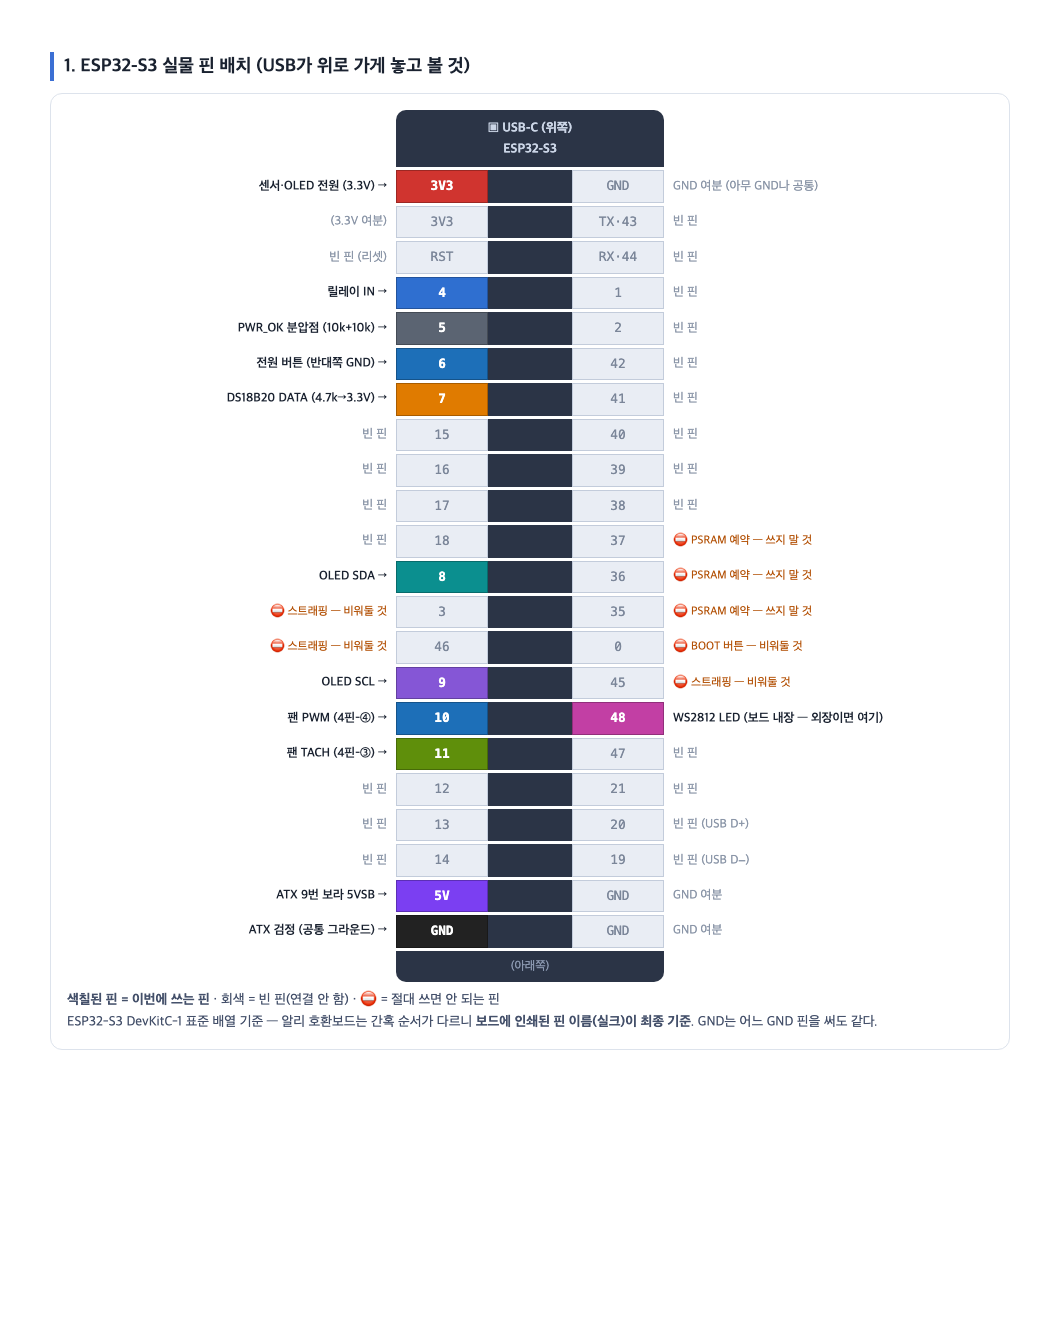
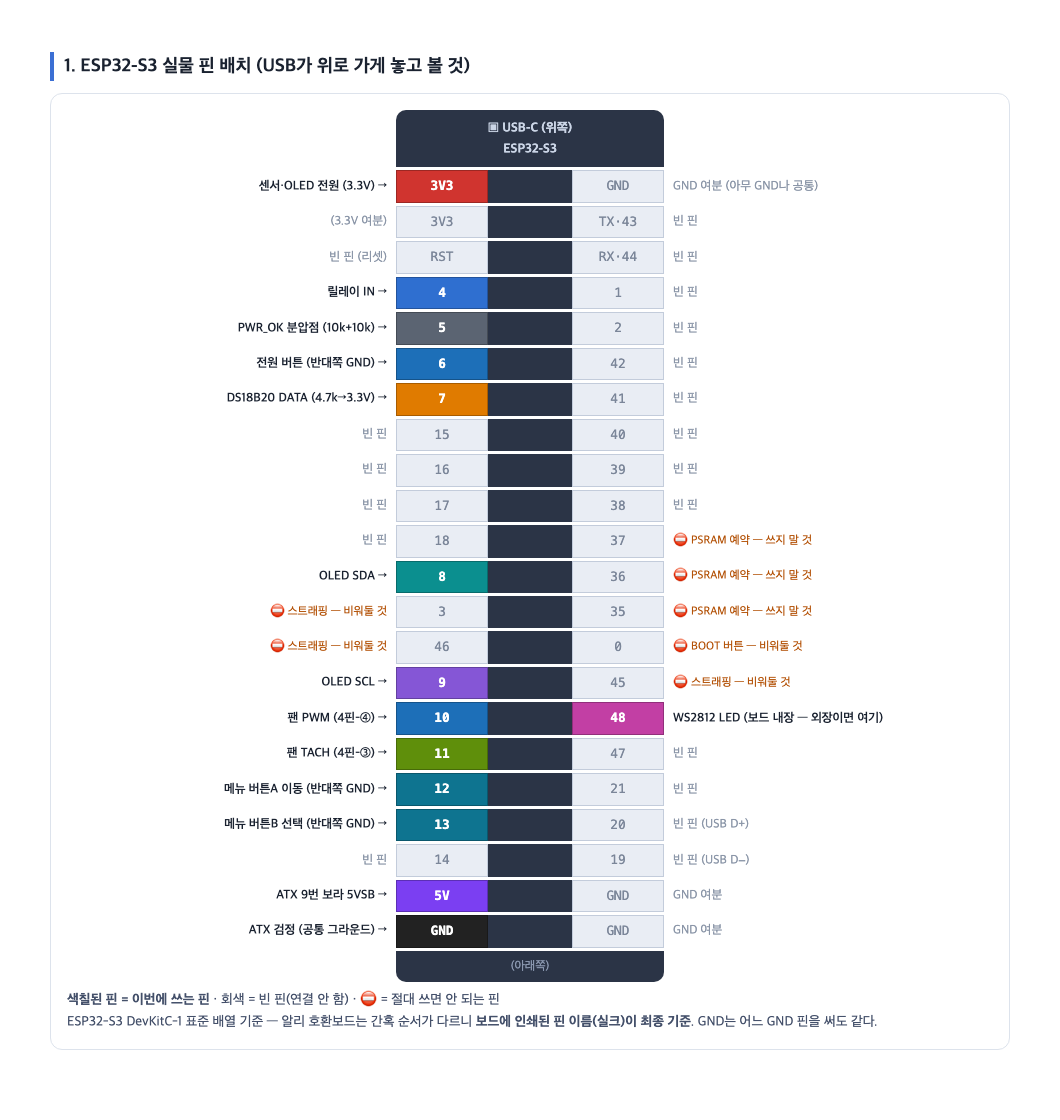
feat: on-device settings menu — 2 nav buttons + OLED (fan mode/preset, brightness, thresholds), Korean menu font

Changed region(s): [[0.0623, 0.0312, 0.8406, 0.9375]]

diff --git a/docs/wiring-guide.html b/docs/wiring-guide.html
@@ -74,8 +74,8 @@
   <div class="lb l u">OLED SCL →</div><div class="pin u" style="background:#8556d6">9</div><div class="body"></div><div class="pin">45</div><div class="lb r"><span class="no">⛔ 스트래핑 — 비워둘 것</span></div>
   <div class="lb l u">팬 PWM (4핀-④) →</div><div class="pin u" style="background:#1d6fb8">10</div><div class="body"></div><div class="pin u" style="background:#c23fa4">48</div><div class="lb r u">WS2812 LED (보드 내장 — 외장이면 여기)</div>
   <div class="lb l u">팬 TACH (4핀-③) →</div><div class="pin u" style="background:#5f8f0b">11</div><div class="body"></div><div class="pin">47</div><div class="lb r">빈 핀</div>
-  <div class="lb l">빈 핀</div><div class="pin">12</div><div class="body"></div><div class="pin">21</div><div class="lb r">빈 핀</div>
-  <div class="lb l">빈 핀</div><div class="pin">13</div><div class="body"></div><div class="pin">20</div><div class="lb r">빈 핀 (USB D+)</div>
+  <div class="lb l u">메뉴 버튼A 이동 (반대쪽 GND) →</div><div class="pin u" style="background:#0e7490">12</div><div class="body"></div><div class="pin">21</div><div class="lb r">빈 핀</div>
+  <div class="lb l u">메뉴 버튼B 선택 (반대쪽 GND) →</div><div class="pin u" style="background:#0e7490">13</div><div class="body"></div><div class="pin">20</div><div class="lb r">빈 핀 (USB D+)</div>
   <div class="lb l">빈 핀</div><div class="pin">14</div><div class="body"></div><div class="pin">19</div><div class="lb r">빈 핀 (USB D−)</div>
   <div class="lb l u">ATX 9번 보라 5VSB →</div><div class="pin u" style="background:#7b3ff2">5V</div><div class="body"></div><div class="pin">GND</div><div class="lb r">GND 여분</div>
   <div class="lb l u">ATX 검정 (공통 그라운드) →</div><div class="pin u" style="background:#222">GND</div><div class="body"></div><div class="pin">GND</div><div class="lb r">GND 여분</div>
@@ -187,6 +187,7 @@
 <tr><td class="mono">GPIO8 / GPIO9</td><td>OLED SDA / SCL</td><td>OLED 전원은 3.3V</td></tr>
 <tr><td class="mono">GPIO10</td><td>팬 4핀-④ PWM</td><td>25kHz PWM 출력</td></tr>
 <tr><td class="mono">GPIO11</td><td>팬 4핀-③ TACH</td><td>내부 풀업, 2펄스/회전</td></tr>
+<tr><td class="mono">GPIO12 / GPIO13</td><td>메뉴 버튼 A(이동) / B(선택)</td><td>반대쪽은 GND, 내부 풀업 — OLED 설정 메뉴 조작</td></tr>
 <tr><td class="mono">GPIO48</td><td>WS2812 상태 LED</td><td>devkit 내장 LED면 배선 불필요</td></tr>
 <tr><td colspan="3" style="background:#fbfcfe">릴레이 접점: <b>COM ↔ ATX 16번 녹색(PS_ON)</b> · <b>NC ↔ GND</b> · NO는 비움 / 릴레이 VCC↔5VSB, GND↔공통</td></tr>
 <tr><td colspan="3" style="background:#fbfcfe">팬 전원: ① GND ↔ 공통 GND · ② 12V ↔ ATX 10번 노랑 (파워 켜져 있을 때만 살아남 — 정상)</td></tr>

diff --git a/README.md b/README.md
@@ -29,6 +29,7 @@ This project fixes all of that with an ESP32-S3 sitting between your ATX PSU and
 - 🧠 **Fully autonomous** — the graceful-shutdown sequence (HTTP request to the OS → wait → cut power), fan curve, OLED and button all run on the ESP32 itself. No Home Assistant, no cloud, no Wi-Fi required
 - 🌡 **Temperature-driven fan curve** — two DS18B20 probes (GPU heatsink + case), 25 kHz PWM, tach feedback with fan-failure detection
 - 🖥 **OLED status display** — power state, temperatures, fan RPM, network info on an SSD1306
+- 🎛 **On-device settings menu** — two extra buttons + the OLED give you a local menu: fan mode/preset, manual speed, display brightness, overheat threshold, shutdown timeout — all saved to flash, no phone or PC needed
 - 🚨 **WS2812 status LED** — off / green (running) / yellow (shutting down) / red (fan failure, overheat)
 - 🌐 **Built-in web dashboard** — control everything from a browser, straight from the ESP32
 - 🏠 **Home Assistant auto-discovery** — appears natively via the ESPHome integration (optional MQTT)
@@ -64,7 +65,7 @@ Missing parts don't break anything: an absent OLED, sensor, fan or button simply
 |---|---|---|---|
 | **Minimal** | ESP32 + relay + 3 jumper wires | Web/HA power on-off, graceful shutdown, status LED (onboard) | [`bc250-front-minimal.yaml`](bc250-front-minimal.yaml) |
 | **+ Button** | + push button | Physical front-panel power button | same |
-| **Full** | + OLED, 2× DS18B20, PWM fan, PWR_OK divider | Fan curve, temperatures, display, PSU state | [`bc250-front.yaml`](bc250-front.yaml) |
+| **Full** | + OLED, 2× DS18B20, PWM fan, 2 menu buttons, PWR_OK divider | Fan curve, temperatures, display, on-device settings menu, PSU state | [`bc250-front.yaml`](bc250-front.yaml) |
 
 ## Hardware
 
@@ -74,7 +75,7 @@ Missing parts don't break anything: an absent OLED, sensor, fan or button simply
 | 5 V 1-channel relay module (optocoupler) | 1 | $1 |
 | SSD1306 0.96" OLED (I2C) | 1 | $2 |
 | DS18B20 temperature sensor | 2 | $2 |
-| Momentary push button | 1 | $0.5 |
+| Momentary push button (power + 2 menu) | 3 | $1 |
 | Resistors: 2× 10 kΩ, 1× 4.7 kΩ | — | $0.1 |
 | Dupont jumper wires | — | $1 |
 
@@ -98,6 +99,7 @@ Missing parts don't break anything: an absent OLED, sensor, fan or button simply
 | `GPIO8` / `GPIO9` | OLED SDA / SCL |
 | `GPIO10` | Fan PWM (4-pin fan, pin 4) |
 | `GPIO11` | Fan tach (4-pin fan, pin 3) |
+| `GPIO12` / `GPIO13` | Menu buttons A (navigate) / B (select) — other leg → GND |
 | `GPIO48` | WS2812 (onboard on most devkits) |
 
 Relay contacts: **COM ↔ ATX pin 16 (green `PS_ON`)**, **NC ↔ GND**, NO unused.

diff --git a/README.ko.md b/README.ko.md
@@ -24,6 +24,7 @@ AMD BC-250은 20만 원 안팎에 PS5 APU를 쓸 수 있는 물건이지만, 마
 - 🧠 **완전 독립 동작** — 정상 종료 시퀀스(OS에 HTTP 종료 요청 → 대기 → 전원 컷), 팬 커브, OLED, 버튼 전부 ESP32 안에서 동작. HA·클라우드·WiFi 없이도 됨
 - 🌡 **온도 기반 팬 커브** — DS18B20 2개(GPU 방열판·케이스), 25kHz PWM, 타코 피드백 + 팬 고장 감지
 - 🖥 **OLED 상태 화면** — 전원 상태·온도·팬 RPM·네트워크 정보
+- 🎛 **본체 설정 메뉴** — 작은 버튼 2개 + OLED로 팬 모드/프리셋, 수동 속도, 화면 밝기, 과열 임계값, 종료 대기시간을 기기에서 직접 조정 (플래시에 저장, 폰·PC 불필요)
 - 🚨 **WS2812 상태 LED** — 꺼짐 / 초록(정상) / 노랑(종료 중) / 빨강(팬 고장·과열)
 - 🌐 **내장 웹 대시보드** — ESP32가 직접 띄우는 관리 페이지
 - 🏠 **Home Assistant 자동 등록** — ESPHome 통합으로 네이티브 연동
@@ -59,7 +60,7 @@ BC-250은 PCIe 8핀만 쓰기 때문에 ATX 24핀 커넥터가 통째로 놀고 
 |---|---|---|---|
 | **최소** | ESP32 + 릴레이 + 점퍼선 3가닥 | 웹/HA 전원 ON·OFF, 정상 종료, 상태 LED(내장) | [`bc250-front-minimal.yaml`](bc250-front-minimal.yaml) |
 | **+버튼** | + 택트 스위치 | 실물 전원 버튼 | 동일 |
-| **풀옵션** | + OLED, DS18B20×2, PWM 팬, PWR_OK 분압 | 팬 커브, 온도, 화면, PSU 상태 감지 | [`bc250-front.yaml`](bc250-front.yaml) |
+| **풀옵션** | + OLED, DS18B20×2, PWM 팬, 메뉴 버튼 2개, PWR_OK 분압 | 팬 커브, 온도, 화면, 본체 설정 메뉴, PSU 상태 감지 | [`bc250-front.yaml`](bc250-front.yaml) |
 
 ## 배선
 
